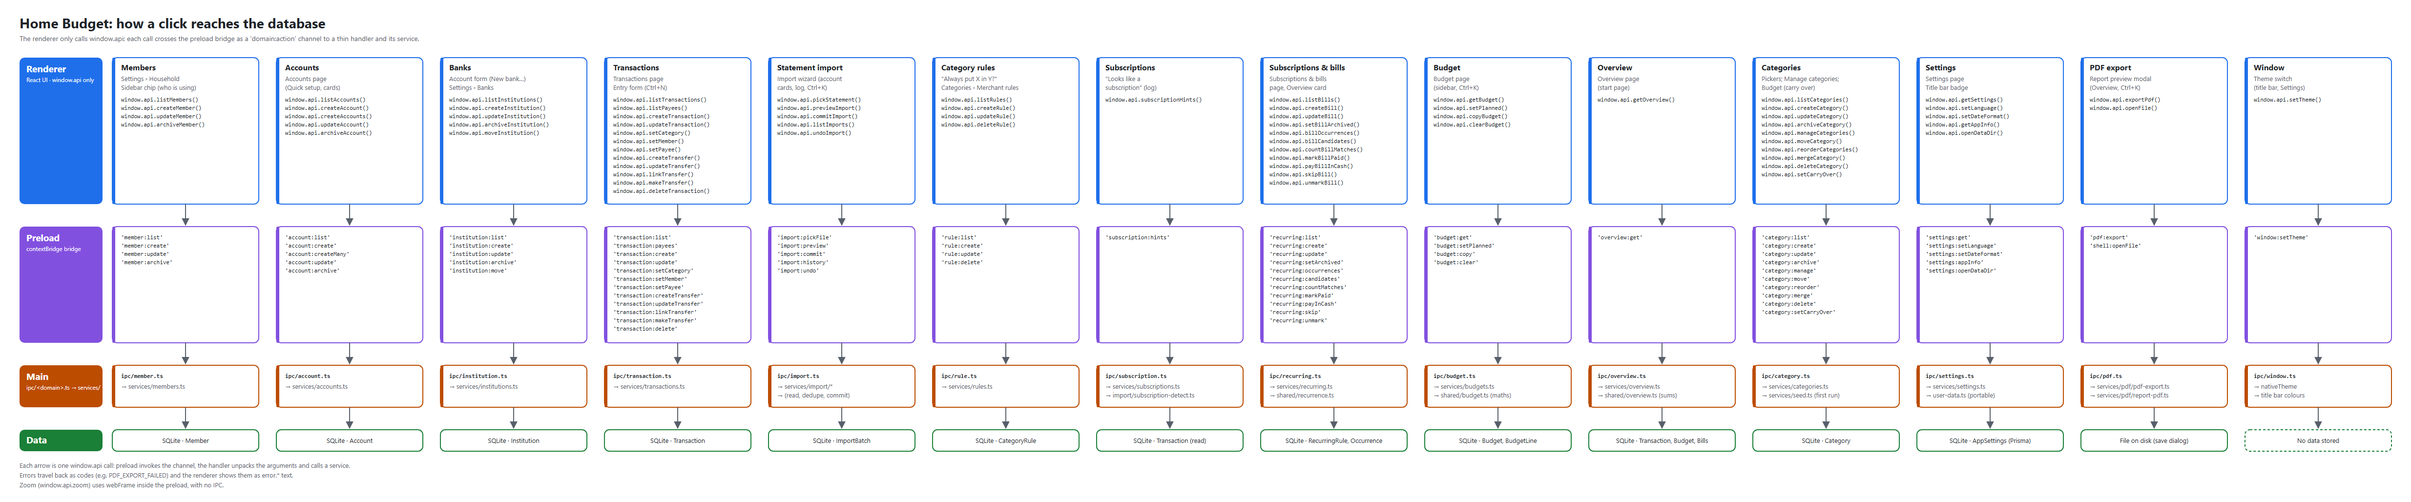
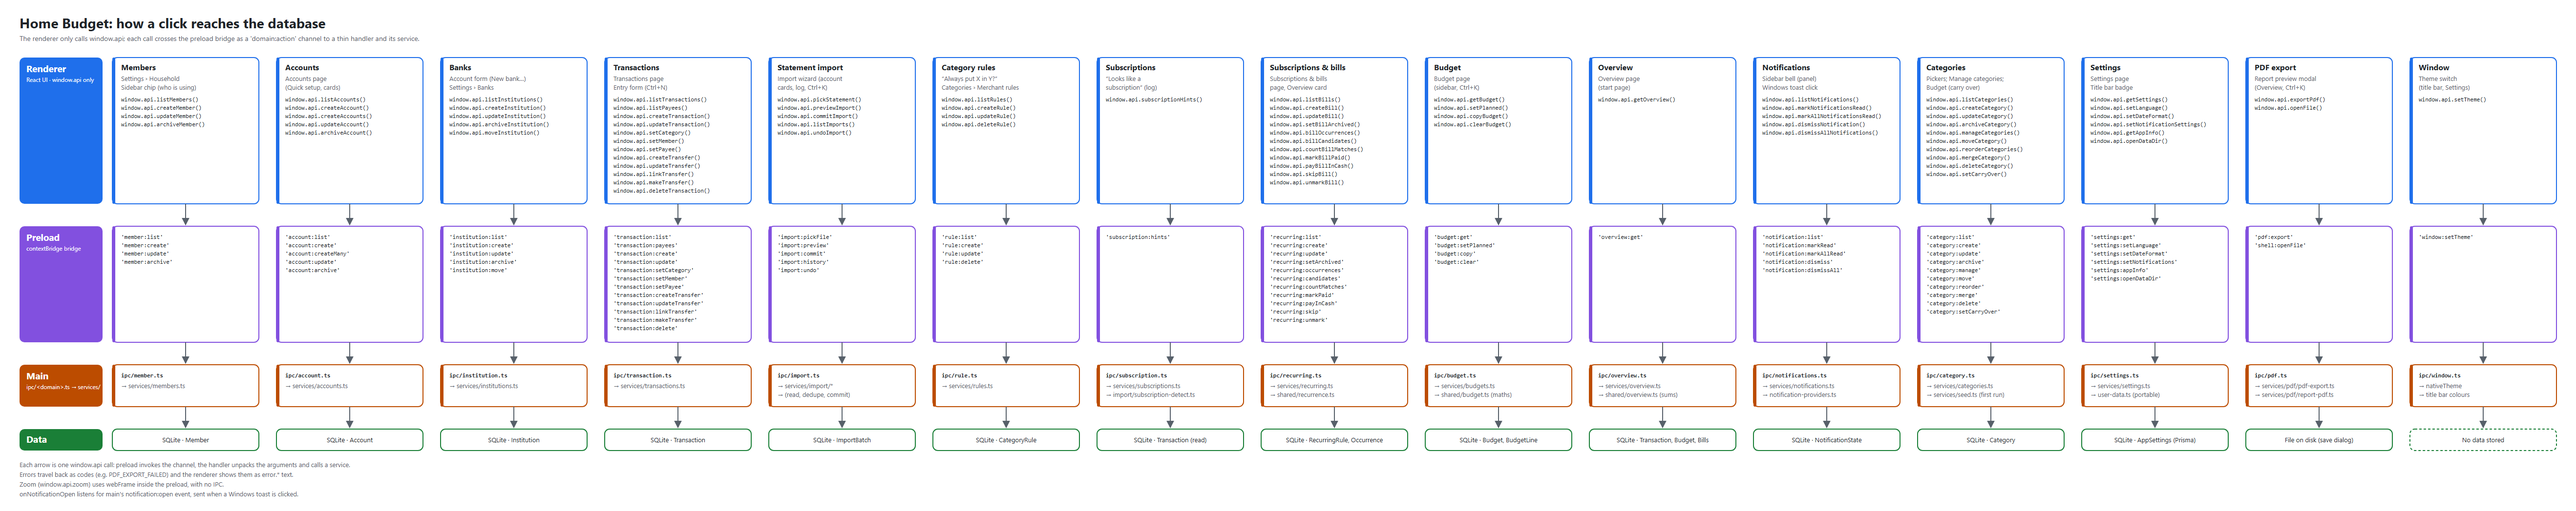
docs: notifications feature doc, roadmap done row, domain model and diagram

diff --git a/docs/features/notifications.md b/docs/features/notifications.md
@@ -1,0 +1,96 @@
+# Notifications
+
+**User's job:** "What needs my attention money-wise, without hunting for it?"
+A bell in the sidebar gathers what needs a hand: bills due or late, income that has not come in, categories over
+their plan, rows to categorise and accounts with no recent statement. While the app is open, Windows toasts call out
+what is due today or late. Ported from Matchday's bell (`../chess-board`). Plan:
+`.claude/plans/plan-roadmap-notifications-polished-donut.md`.
+
+## UX
+
+- **Bell** (sidebar footer, above the member chip): **Notifications** with a red unread count (`9+` above 9). In the
+  collapsed sidebar the count sits on the icon and the tooltip reads "Notifications · 3 unread". `Ctrl+K`
+  "Notifications" opens it too, and the app tour points at it.
+- **Panel** (384 px popover): title and "N unread", then **Mark all read** and **Clear all**. **Clear all** asks
+  first and explains that items come back only when something new happens. Groups: **Overdue** → **Due soon** →
+  **Budget & data**, most urgent first.
+- **Row:** an unread dot, then an icon and title ("ΔΕΗ is due tomorrow", "Rent is not paid yet"). The icon and its
+  colour carry the severity: red for late or due today, amber for soon, grey for info. Next comes a detail line
+  (amount, date, "4 days late"), then one main button with any other actions in **…**, and **Hide (×)**. Clicking a
+  row marks it read. Acting on it marks it read and closes the panel.
+
+| Kind | Shows when | Main action (others) |
+| --- | --- | --- |
+| Bill due | Unpaid and inside the reminder window (urgent on the day) | **Mark as paid** (Skip this one, Open bills) |
+| Bill overdue | Due date passed, unpaid and not skipped | **Mark as paid** (Skip this one, Open bills) |
+| Income late | An income rule's date passed with nothing booked | **Mark as received** (Skip, Open bills) |
+| Over budget | A *planned* outgoing category spent past what was available this month | **Open budget** (that month) |
+| To categorise | Any rows without a category (transfers aside) | **Categorise** (the log, every month, uncategorised) |
+| No import lately | An account's last imported statement ended 30+ days ago | **Import statement** (wizard on that account) |
+
+- **Mark as paid** opens the same dialog as the Subscriptions & bills page, so nothing new has to be learned.
+- **Empty state:** "All caught up" with a line naming what would show. It has no disabled buttons.
+- **Settings › Notifications:** **Remind me before a bill** (on the day, 1, 2, 3, 5, 7 or 14 days; default 3, the
+  same as a bill's *Due* status) and **Windows notifications** On/Off (on by default).
+- **Bill form › More options:** **Remind me**, with "As in Settings (3 days before)" first and choices up to 30 days.
+  It is hidden for income, because income only shows once it is late.
+- **Toasts:** one per new item that is due today, overdue or late income, shown once. More than 3 at once become one
+  summary ("4 things need a hand"). Clicking a toast restores and focuses the window and opens the bell.
+
+## Behaviour
+
+- **Computed, never stored** (Matchday pattern). Providers in main build the list each time it is read. Only marks
+  are stored in `NotificationState` (key → readAt, dismissedAt, toastedAt). Marks whose item is gone are pruned, but
+  only when every provider answered, so one failing provider never wipes the others' marks.
+- **Stable keys** decide what "the same item" is. Bills use `bill:<ruleId>:<dueDate>` and income uses
+  `income:<ruleId>:<dueDate>`. Budget items use `budget:<month>:<categoryId>`. To-categorise uses
+  `categorise:<newest row id>`, so a new uncategorised row brings a hidden nudge back. Imports use
+  `import:<accountId>:<last batch id>`.
+- Paying a bill, whether it was typed, imported or marked, removes its item by itself. That is the same matching as
+  #7 (`listUnpaid`).
+- **Lead time** (decided 2026-10-30) is the rule's `remindDays` when set, else `AppSettings.notifyLeadDays`. Overdue
+  dates go back as far as the Overview's card does.
+- Unplanned spending is the budget's own banner, so it is not raised here.
+- The renderer refreshes the list on launch, on page change, on window focus, after any ledger change (store
+  revision) and when a toast is clicked. Toasts are checked 5 s after the window shows and then hourly, which also
+  catches the day changing. Toasts only run while the app is open (decided 2026-10-30), with no tray or login item.
+- Toast texts come from the same `notifications.*` keys, read from `en.json`/`el.json` in main. The wording is built
+  once in `src/shared/notification-text.ts`. The Windows app id is set from `electron-builder.yml` (`appId`).
+
+## Code
+
+| Path | Role |
+| --- | --- |
+| `src/shared/notifications.ts` | Types, keys, merge/sort, groups, lead-time constants, `pickToasts` |
+| `src/shared/notification-text.ts` | Title and detail line of an item, for the bell and the toasts |
+| `src/main/services/notifications.ts` | Provider registry, `collectNotifications`, marks |
+| `src/main/services/notification-providers.ts` | Pure `compute*` per kind plus the four providers |
+| `src/main/services/notification-toasts.ts` | Windows toasts, the main-side translator, the hourly check |
+| `src/main/ipc/notifications.ts` | `notification:*` handlers |
+| `src/renderer/src/store/notifications.ts` | List, panel state, marks |
+| `src/renderer/src/components/notifications/` | `NotificationCenter` (bell + panel), `NotificationRow` |
+| `src/renderer/src/lib/notifications.ts` | Action labels and icons, groups, lead-day labels |
+
+## IPC
+
+| Channel | Args → result | Errors |
+| --- | --- | --- |
+| `notification:list` | — → `AppNotification[]` | — |
+| `notification:markRead` | `keys[]` → — | — |
+| `notification:markAllRead` / `notification:dismissAll` | — → — | — |
+| `notification:dismiss` | `key` → — | — |
+| `settings:setNotifications` | `{ leadDays, toasts }` → — | `INVALID_INPUT` |
+| `notification:open` *(main → renderer event)* | `key \| null` | — |
+
+## Tests
+
+- `src/shared/notifications.test.ts` covers merging marks, sorting, groups, signed days, the "when" wording and
+  toast picking with its summary above 3.
+- `src/main/__tests__/notifications.test.ts` covers the household versus the rule lead time, urgent on the day,
+  overdue, late income, paid dates dropped, over budget for planned categories only, the to-categorise key changing
+  with a new row, stale imports at 30 days, pruning kept when a provider fails, and the toast translator.
+
+## Later
+
+- Instalment due (#9 adds its own provider). Payment calendar (#17). A tray icon that toasts with the window closed
+  would need a decision.

diff --git a/docs/roadmap.md b/docs/roadmap.md
@@ -6,7 +6,7 @@ As of 2026-10-30 · Andrew Kondylis
 
 The project starts from the Matchday shell (theme, UI kit, UX rules). The Matchday conveniences (palette, hover cards, tour, portable edition, PDF preview) have been ported.
 The first domain slice has shipped: accounts and cards, categories, transactions with quick cash entry, and Alpha
-Bank / Eurobank statement import (plan `.claude/plans/in-the-app-i-quizzical-stroustrup.md`). **12 items** are queued
+Bank / Eurobank statement import (plan `.claude/plans/in-the-app-i-quizzical-stroustrup.md`). **11 items** are queued
 in Future, grouped by theme with one global priority (`#`); the order is a proposal to discuss. Three items wait on a
 decision.
 
@@ -22,6 +22,7 @@ Details live in the linked feature doc (`docs/features/`). Newest first.
 
 | Shipped | Feature | Notes |
 | --- | --- | --- |
+| 2026-10-30 | Notifications | Sidebar bell for bills due and overdue (remind N days before, household-wide in Settings or per bill, decided 2026-10-30), income not come in, planned categories over budget, rows to categorise and accounts not imported for 30 days; one click to **Mark as paid**, **Open budget**, **Categorise** or **Import**; Windows toasts for what is due today or late while the app is open, on/off in Settings (decided 2026-10-30). Instalment due comes with #9 · [notifications](features/notifications.md) |
 | 2026-10-30 | Subscriptions & bills | Weekly, monthly, yearly and every-N rules (quarterly, every 2 weeks) for bills, subscriptions and income; a typed or imported row that matches marks the date paid on its own, **Mark as paid** picks a row or adds a cash one, **Skip** for a missed one (no auto-created rows, decided 2026-10-30); fixed costs per month; yearly charges offered as a monthly plan line in the budget with Carry over (decided 2026-10-30); **Track it** turns a subscription hint into a rule; fills the Overview's **Upcoming bills** · [subscriptions & bills](features/subscriptions-bills.md) |
 | 2026-10-30 | Overview (live) | The start page from real data: tiles for income and spending this month (transfers left out), **Left to spend** from the budget with its meter (or **No plan yet**), and money in accounts (meal vouchers apart). Each tile opens its detail. Banners name the categories over the plan and the rows to categorise; the setup checklist ticks itself and hides once done; **Upcoming bills** filled by #7 · [overview](features/overview.md) |
 | 2026-10-29 | Banks as an editable list | Add a bank (Revolut, Piraeus, NBG…) from the account form's **+ New bank…** or Settings › **Banks** (rename, reorder, archive) with no code change; common Greek banks and the meal-card issuers listed from the start; grouping and filters on Accounts follow the list and its order, **No bank** last; existing accounts keep their bank (decided 2026-10-29) · [banks](features/banks.md) |
@@ -51,9 +52,8 @@ Sizes: S ≈ ½ day, M ≈ 1–2 days, L > 2 days. *New* marks items added after
 
 | # | Feature | Size | What it does | Depends on / plan | Open |
 | --- | --- | --- | --- | --- | --- |
-| 8 | Notifications | M | Sidebar bell (Matchday pattern): bill due, overdue, over budget, instalment due; Windows toast | #7, #9 | Remind N days before? |
 | 17 | Payment calendar *(new)* | M | Amounts due by date with paid marks, pay days across the year; week starts Monday or Sunday | #7 | — |
-| 9 | Debts & loans | M | Loans, interest-free instalments, money owed; remaining balance, payoff date, schedule; **snowball / avalanche** payoff with an extra monthly amount, interest before payment, manual balance override | Accounts | Interest calculation needed? |
+| 9 | Debts & loans | M | Loans, interest-free instalments, money owed; remaining balance, payoff date, schedule; an **instalment due** item in the bell (#8); **snowball / avalanche** payoff with an extra monthly amount, interest before payment, manual balance override | Accounts | Interest calculation needed? |
 | 10 | Yearly budget | S–M | 12-month plan view, year vs last year; budgeting per pay period as an option | Monthly budget | — |
 | 11 | Projections | M | Balance forecast per month from rules, instalments and planned income | #7, #9 | Horizon (6/12/24 months) |
 
@@ -87,4 +87,4 @@ Nothing yet.
 
 | Item | Why |
 | --- | --- |
-| Card limit, statement day, due day | Not needed for now (2026-10-27); can return with Notifications (#8) |
+| Card limit, statement day, due day | Not needed for now (2026-10-27); Notifications (#8) shipped without them, a card-due provider can be added later |

diff --git a/docs/domain-model.md b/docs/domain-model.md
@@ -24,11 +24,11 @@ same change. **In schema** marks what exists; the rest is a draft. Open question
 | **CategoryRule** *(in schema)* | Merchant rule: the first match by priority sets an imported row's category and payee | pattern (normalised), match (`CONTAINS`/`STARTS_WITH`/`EXACT`), accountId?, categoryId, payee?, priority, hitCount |
 | **Budget** *(in schema)* | The plan for one month (yearly = 12 months, later) | month (`YYYY-MM`, unique) |
 | **BudgetLine** *(in schema)* | Planned amount of one category (never a group) in one month, stored positive; removed with its budget | budgetId, categoryId, plannedCents (unique per budget and category) |
-| **RecurringRule** *(in schema)* | Subscriptions, bills, salary, and **non-monthly** charges (yearly insurance, quarterly tax, every-2-months utilities); archived, never deleted. Due dates are computed, never stored | name, amountCents (positive; the category type gives the sign), amountVaries, categoryId, accountId?, memberId?, frequency (`WEEK`/`MONTH`/`YEAR`), interval (every N), anchorDate (first due), endsAt?, matchText? (bank text; null = name), archivedAt |
+| **RecurringRule** *(in schema)* | Subscriptions, bills, salary, and **non-monthly** charges (yearly insurance, quarterly tax, every-2-months utilities); archived, never deleted. Due dates are computed, never stored | name, amountCents (positive; the category type gives the sign), amountVaries, categoryId, accountId?, memberId?, frequency (`WEEK`/`MONTH`/`YEAR`), interval (every N), anchorDate (first due), endsAt?, matchText? (bank text; null = name), remindDays? (bell lead time; null = Settings), archivedAt |
 | **RecurringOccurrence** *(in schema)* | A due date marked by hand; removed with its rule, or with its row | ruleId, dueDate (unique per rule), status (`PAID`/`SKIPPED`), transactionId? (unique) |
 | **Debt** | Loans, instalment purchases (άτοκες δόσεις), money owed to/by relatives | kind, principalCents, rate?, instalmentCents, startDate, termMonths, accountId, counterparty |
 | **Goal** *(later)* | Saving target (holidays, car) | targetCents, targetDate, accountId |
-| **Notification** | Reminders: bill due, over budget, debt instalment, low balance | kind, key, dueAt, readAt, dismissedAt |
+| **NotificationState** *(in schema)* | Marks of a computed notification (the notifications themselves are never stored; see [notifications](features/notifications.md)); pruned when the item is gone. Lead time and toasts live on `AppSettings` (notifyLeadDays, notifyToasts) | key (e.g. `bill:<ruleId>:<dueDate>`), readAt?, dismissedAt?, toastedAt? |
 
 ### Rules that live in the services
 

diff --git a/docs/architecture.md b/docs/architecture.md
@@ -29,8 +29,8 @@ behind a transport adapter, without rewriting business logic.
 src/main/
   index.ts                   Window, startup (portable check → migrations → settings → handlers), clean shutdown
   user-data.ts               Portable edition: marker detection, data folder next to the exe
-  ipc/                       One file per domain: settings, pdf, window, member, account, category, transaction, import, rule, subscription, budget, overview, recurring
-  services/                  Business logic (settings, members, accounts, categories, transactions, rules, budgets, overview, recurring, import/, pdf/)
+  ipc/                       One file per domain: settings, pdf, window, member, account, category, transaction, import, rule, subscription, budget, overview, recurring, notifications
+  services/                  Business logic (settings, members, accounts, categories, transactions, rules, budgets, overview, recurring, notifications + notification-providers + notification-toasts, import/, pdf/)
   services/pdf/              report-pdf.ts (ReportDocument → PDF, pdf-lib), pdf-export.ts (save dialog), pdf-text.ts
   db/                        migrate.ts, prisma.ts, db-path.ts, pragmas.ts (journal mode), startup-backup.ts
 src/shared/                  Pure code used by both processes

diff --git a/docs/features/subscriptions-bills.md b/docs/features/subscriptions-bills.md
@@ -93,4 +93,4 @@ and `Ctrl+K` "Add a bill or subscription".
 
 ## Later
 
-- Reminders N days before a due date and the sidebar bell (#8); a payment calendar (#17); projections (#11).
+- A payment calendar (#17); projections (#11). Reminders and the bell shipped with [notifications](notifications.md) (#8).
